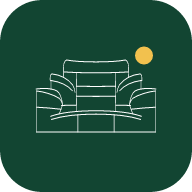
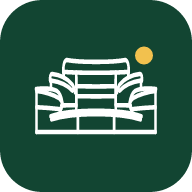
feat(core): 앱 아이콘 다크 모드 대응과 PNG 다크 버전, 테마 아이콘
탭 아이콘과 사이드바 SVG는 안에서 다크로 바뀌고(어두운 녹색 면, 민트 선), PNG는 *-dark.png를 따로 만들어 media로 고른다.
안드로이드 테마 아이콘용 monochrome 실루엣을 manifest에 넣었다. resvg가 non-scaling-stroke를 무시해 PNG 선이 가늘던 문제도 고쳤다.
pwa-asset-generator도 봤지만 다크 모드는 iOS 시작 화면만 지원해 쓰지 않았다(사용자 요청: "png 다크모드, 오픈소스 툴").
검증: 48, 192, 512px 라이트와 다크, 실루엣을 이미지로 확인. vite build 통과.

Changed region(s): [[0.1562, 0.2812, 0.8438, 0.7188]]

diff --git a/web/vite.config.ts b/web/vite.config.ts
@@ -11,7 +11,7 @@ export default defineConfig({
     VitePWA({
       registerType: 'autoUpdate',
       injectRegister: null,
-      includeAssets: ['favicon.svg', 'apple-touch-icon.png', 'icons/sprite.svg'],
+      includeAssets: ['favicon.svg', 'icon.svg', 'apple-touch-icon*.png', 'icon-48*.png', 'icons/sprite.svg'],
       manifest: {
         id: './',
         name: '성대 공지 맞춤 알림',
@@ -33,6 +33,8 @@ export default defineConfig({
           { src: 'icon-192.png', sizes: '192x192', type: 'image/png' },
           { src: 'icon-512.png', sizes: '512x512', type: 'image/png' },
           { src: 'icon-maskable-512.png', sizes: '512x512', type: 'image/png', purpose: 'maskable' },
+          // 안드로이드 테마 아이콘(One UI 포함)이 배경색에 맞춰 칠하는 흰 실루엣. 다크 모드 대응은 런처가 한다.
+          { src: 'icon-monochrome-512.png', sizes: '512x512', type: 'image/png', purpose: 'monochrome' },
         ],
         shortcuts: [
           { name: '내 공지', url: './?tab=mine', icons: [{ src: 'icon-192.png', sizes: '192x192' }] },

diff --git a/web/index.html b/web/index.html
@@ -8,8 +8,12 @@
   <!-- 설치 앱의 상태 표시줄과 제목 표시줄 색. --bg 토큰과 같은 값(docs/design/platforms.md). -->
   <meta name="theme-color" content="#f3f7f5" media="(prefers-color-scheme: light)">
   <meta name="theme-color" content="#0d100f" media="(prefers-color-scheme: dark)">
+  <!-- favicon.svg는 안에서 스스로 다크로 바뀐다. PNG는 다크 파일을 따로 두고 media로 고른다(scripts/build_icons.py). -->
   <link rel="icon" href="favicon.svg" type="image/svg+xml">
-  <link rel="apple-touch-icon" href="apple-touch-icon.png">
+  <link rel="icon" href="icon-48.png" type="image/png" sizes="48x48" media="(prefers-color-scheme: light)">
+  <link rel="icon" href="icon-48-dark.png" type="image/png" sizes="48x48" media="(prefers-color-scheme: dark)">
+  <link rel="apple-touch-icon" href="apple-touch-icon.png" media="(prefers-color-scheme: light)">
+  <link rel="apple-touch-icon" href="apple-touch-icon-dark.png" media="(prefers-color-scheme: dark)">
   <script type="module" src="/src/main.ts"></script>
 </head>
 <body>

diff --git a/scripts/build_icons.py b/scripts/build_icons.py
@@ -50,32 +50,57 @@ def tile(name: str, size: int = 128, radius: int = 28, scale: float = 3.3) -> st
     )
 
 
+# 다크 모드에서는 화면의 분류 아이콘과 같은 조합으로 바뀐다: 어두운 녹색 면(--accent-soft 다크) 위 민트 선(--accent 다크).
+# SVG는 안에 미디어 쿼리를 넣어 스스로 바뀌고, PNG는 미디어 쿼리가 없으므로 *-dark.png를 따로 만들어
+# index.html의 <link media="(prefers-color-scheme: dark)">로 골라 쓴다.
+DARK_TILE = "#163527"
+# PNG에서 원본 선을 그릴 굵기(원본 그룹 좌표 단위). 128용은 128px에서 약 2.4px, 32용은 32px에서 약 1.4px가 되게 맞췄다.
+PNG_STROKE = {128: 16, 32: 28}
+DARK_LINE = "#7ed2ab"
+DARK_STYLE = (
+    "<style>@media (prefers-color-scheme: dark){"
+    f".tile{{fill:{DARK_TILE}}}.art{{stroke:{DARK_LINE}}}.ring{{stroke:{DARK_TILE}}}}}</style>"
+)
+
+
 def library_art(size: int) -> str:
     """아캠 플러스 아이콘의 지붕 선 묶음(<g>)만 꺼낸다. 128은 층 띠까지, 32는 단순화한 선."""
     text = (SRC / f"library{size}.svg").read_text(encoding="utf-8")
     return re.search(r"<g .*</g>", text, re.S).group()
 
 
-def app_icon(size: int, full_bleed: bool) -> str:
+def app_icon(size: int, full_bleed: bool, variant: str = "auto") -> str:
     """아캠 플러스 지붕 선 위에, 새 공지를 뜻하는 노랗게 물든 은행잎 점을 얹는다.
 
     full_bleed는 안드로이드 maskable(가장자리가 잘림)용이고, 아니면 웨일 아이콘처럼 둥근 타일이다.
     점은 maskable 안전 영역(가운데 반지름 40%) 안에 둔다.
     """
-    art = library_art(128 if size >= 96 else 32)
+    base = 128 if size >= 96 else 32
+    art = library_art(base)
     background = (
         f'<rect width="128" height="128" fill="{BRAND}"/>'
         if full_bleed
         else f'<rect width="128" height="128" rx="28" fill="{BRAND}"/>'
     )
-    # 원본은 선 굵기가 화면 픽셀 고정(non-scaling-stroke)이라, 큰 크기로 그릴 때 굵기를 비례해 키운다.
-    if size > 128:
-        factor = size / 128
-        art = re.sub(r'stroke-width="([\d.]+)"', lambda m: f'stroke-width="{float(m.group(1)) * factor:.2f}"', art)
-    dot = f'<circle cx="96" cy="37" r="7.5" fill="{GINKGO_YELLOW}" stroke="{BRAND}" stroke-width="3"/>'
+    # 원본은 선 굵기가 화면 픽셀 고정(non-scaling-stroke)이다. 브라우저용 SVG(auto)는 그대로 두고,
+    # PNG를 굽는 resvg는 이 속성을 무시하고 그룹 축소 비율(약 0.15)로 선을 가늘게 그리므로 속성을 빼고 굵기를 다시 준다.
+    if variant != "auto":
+        art = art.replace(' vector-effect="non-scaling-stroke"', "")
+        art = re.sub(r'stroke-width="[\d.]+"', f'stroke-width="{PNG_STROKE[base]}"', art)
+    dot = f'<circle class="ring" cx="96" cy="37" r="7.5" fill="{GINKGO_YELLOW}" stroke="{BRAND}" stroke-width="3"/>'
+    background = background.replace("<rect ", '<rect class="tile" ', 1)
+    art = art.replace("<g ", '<g class="art" ', 1)
+    style = DARK_STYLE if variant == "auto" else ""
+    if variant == "dark":
+        background = background.replace(f'fill="{BRAND}"', f'fill="{DARK_TILE}"')
+        art = art.replace('stroke="#ffffff"', f'stroke="{DARK_LINE}"')
+        dot = dot.replace(f'stroke="{BRAND}"', f'stroke="{DARK_TILE}"')
+    if variant == "monochrome":
+        background = ""
+        dot = '<circle cx="96" cy="37" r="7.5" fill="#ffffff"/>'
     return (
         f'<svg xmlns="http://www.w3.org/2000/svg" width="{size}" height="{size}" viewBox="0 0 128 128">'
-        f"{background}{art}{dot}</svg>"
+        f"{style}{background}{art}{dot}</svg>"
     )
 
 
@@ -93,10 +118,12 @@ def main() -> None:
     (WEB / "icons" / "notify").mkdir(parents=True, exist_ok=True)
     (WEB / "favicon.svg").write_text(app_icon(32, full_bleed=False) + "\n", encoding="utf-8")
     (WEB / "icon.svg").write_text(app_icon(128, full_bleed=False) + "\n", encoding="utf-8")
-    for size in (48, 192, 512):
-        png(app_icon(size, full_bleed=False), WEB / f"icon-{size}.png", size)
-    png(app_icon(512, full_bleed=True), WEB / "icon-maskable-512.png", 512)
-    png(app_icon(180, full_bleed=True), WEB / "apple-touch-icon.png", 180)
+    for suffix, variant in (("", "light"), ("-dark", "dark")):
+        for size in (48, 192, 512):
+            png(app_icon(size, False, variant), WEB / f"icon-{size}{suffix}.png", size)
+        png(app_icon(512, True, variant), WEB / f"icon-maskable-512{suffix}.png", 512)
+        png(app_icon(180, True, variant), WEB / f"apple-touch-icon{suffix}.png", 180)
+    png(app_icon(512, True, "monochrome"), WEB / "icon-monochrome-512.png", 512)
     (WEB / "icons" / "sprite.svg").write_text(sprite(), encoding="utf-8")
     for name in NOTIFY:
         svg = tile(name)
